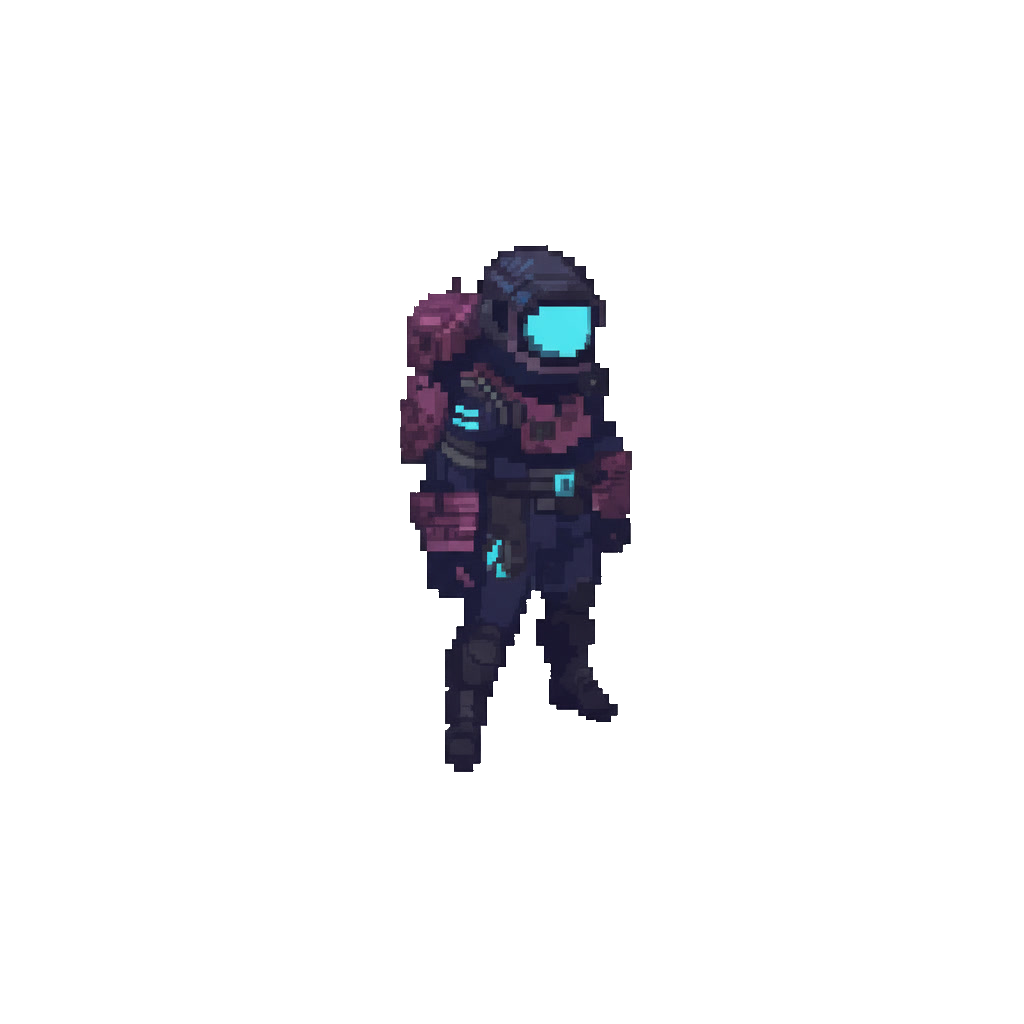
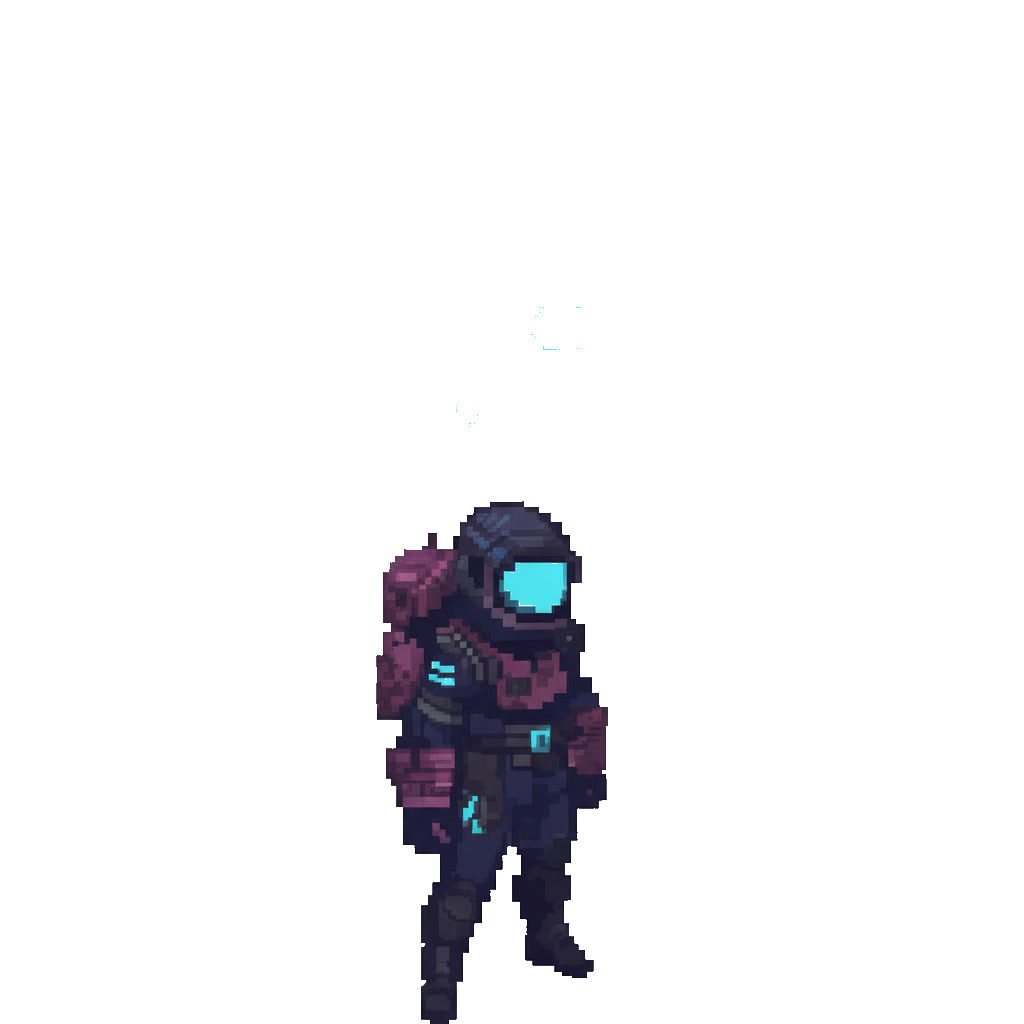
feat: implement player positioning on isometric grid

Changed region(s): [[0.3438, 0.2188, 0.625, 1.0]]

diff --git a/src/components/Canvas/Canvas.tsx b/src/components/Canvas/Canvas.tsx
@@ -1,4 +1,4 @@
-import { useEffect, useRef } from "react";
+import { useEffect, useRef, type RefObject } from "react";
 import styles from "./canvas.module.css";
 import findTile from "../../game/grid/findTile";
 import type { GameAssets } from "../../assets/assetTypes";
@@ -16,7 +16,20 @@ import { drawWorldBorders } from "../../rendering/environment/drawWorldBorders";
 import { getViewport } from "../../rendering/viewport/getViewport";
 import { screenToWorld } from "../../rendering/viewport/screenToWorld";
 import type { CanvasProps } from "./Canvas.interface";
-import { HALF_TILE_HEIGHT } from "../../game/grid/grid.constants";
+import {
+  GRID_ORIGIN_X,
+  GRID_ORIGIN_Y,
+  HALF_TILE_HEIGHT,
+  HALF_TILE_WIDTH,
+} from "../../game/grid/grid.constants";
+
+export interface Player {
+  gridX: number;
+  gridY: number;
+  targetGridX: number;
+  targetGridY: number;
+  speed: number;
+}
 
 export default function Canvas({
   handleTileSelection,
@@ -34,20 +47,34 @@ export default function Canvas({
 }: CanvasProps) {
   const drawStaticChar = (
     ctx: CanvasRenderingContext2D,
-    tile: Tile,
     assets: GameAssets,
+    player: RefObject<Player>,
   ) => {
     const image = assets.playable_char_static;
 
-    console.log("TILE ====> ", tile);
+    const width = 152;
+    const height = 152;
 
-    const width = 126;
-    const height = 126;
+    const worldX =
+      GRID_ORIGIN_X + (player.current.gridX - player.current.gridY) * HALF_TILE_WIDTH;
 
-    const x = tile.x - width / 2;
-    const y = tile.y - height + HALF_TILE_HEIGHT;
+    const worldY =
+      GRID_ORIGIN_Y + (player.current.gridX + player.current.gridY) * HALF_TILE_HEIGHT;
+
+    const x = worldX - width / 2;
+    const y = worldY - height;
 
     ctx.drawImage(image, x, y, width, height);
+
+    ctx.drawImage(image, x, y, width, height);
+
+    ctx.beginPath();
+    ctx.arc(worldX, worldY, 5, 0, 2 * Math.PI);
+    ctx.fillStyle = "red";
+    ctx.fill();
+    ctx.lineWidth = 4;
+    ctx.strokeStyle = "blue";
+    ctx.stroke();
   };
 
   const canvasRef = useRef<HTMLCanvasElement | null>(null);
@@ -55,6 +82,14 @@ export default function Canvas({
   const tilesRef = useRef<Tile[]>(tiles);
   const plantsRef = useRef<Plant[]>(plants);
   const assetsRef = useRef<GameAssets>(assets);
+
+  const playerRef = useRef<Player>({
+    gridX: 2,
+    gridY: 9,
+    targetGridX: 5,
+    targetGridY: 5,
+    speed: 3,
+  });
 
   useEffect(() => {
     tilesRef.current = tiles;
@@ -80,7 +115,7 @@ export default function Canvas({
 
     let animationFrameId: number;
 
-    const render = (time: number) => {
+    const render = (timeStamp: number) => {
       ctx.clearRect(0, 0, canvas.width, canvas.height);
       const viewport = getViewport(canvas.width, canvas.height);
 
@@ -99,13 +134,14 @@ export default function Canvas({
 
       drawDepthSortedWorld(
         ctx,
-        time,
+        timeStamp,
         plantsRef.current,
         initialDecorations,
         tilesRef.current,
         assetsRef.current,
         bioBatteryStatus,
       );
+      drawStaticChar(ctx, assets, playerRef);
 
       drawForeground(ctx, assetsRef.current);
 
@@ -113,13 +149,12 @@ export default function Canvas({
 
       drawWorldBorders(ctx, canvas.width, canvas.height, viewport);
 
-      drawStaticChar(ctx, tilesRef.current[70], assets);
-
       animationFrameId = requestAnimationFrame(render);
     };
 
     // render();
     animationFrameId = requestAnimationFrame(render);
+    console.log("animationFrameId : ", animationFrameId);
 
     return () => {
       cancelAnimationFrame(animationFrameId);

diff --git a/src/game/grid/generateGrid.ts b/src/game/grid/generateGrid.ts
@@ -6,24 +6,12 @@ import {
   HALF_TILE_WIDTH,
   HALF_TILE_HEIGHT,
 } from "./grid.constants";
-import type { GroundOverlay, GroundVariant, Tile } from "./tiles.types";
+import type { GroundVariant, Tile } from "./tiles.types";
 
 export const getGroundVariant = (gridX: number, gridY: number): GroundVariant => {
   const hash = Math.imul(gridX, 73856093) ^ Math.imul(gridY, 19349663);
 
   return (Math.abs(hash) % 3) as GroundVariant;
-};
-
-export const getGroundOverlay = (gridX: number, gridY: number): GroundOverlay => {
-  const hash = Math.abs((gridX * 73856093) ^ (gridY * 19349663));
-
-  const value = hash % 20;
-
-  if (value === 0) return "smallRock";
-  if (value === 1) return "spores";
-  if (value === 2) return "vein";
-
-  return null;
 };
 
 export const generateGrid = (): Tile[] => {
@@ -57,7 +45,6 @@ export const generateGrid = (): Tile[] => {
         hovered: false,
         path,
         groundVariant: getGroundVariant(gridX, gridY),
-        groundOverlay: getGroundOverlay(gridX, gridY),
       });
     }
   }

diff --git a/src/components/Hud/Transmissions/TransmissionModal/TransmissionModal.tsx b/src/components/Hud/Transmissions/TransmissionModal/TransmissionModal.tsx
@@ -111,10 +111,13 @@ export default function TransmissionModal({
             {currentTransmission.texts[currentTransmissionIndex] && (
               <button
                 style={{
-                  background: "transparent",
-                  border: "none",
                   cursor: "pointer",
                   color: "#89dcf1",
+                  background: "rgba(7,13,31,0.94)",
+                  // border: "1px solid #087E98",
+                  border: "1px solid #89dcf1",
+                  padding: "0.5rem",
+                  borderRadius: 5,
                 }}
                 onClick={() => {
                   if (currentTransmissionIndex === currentTransmission.texts.length - 1) {
@@ -122,7 +125,7 @@ export default function TransmissionModal({
                   } else setCurrentTransmissionIndex(currentTransmissionIndex + 1);
                 }}
               >
-                CONTINUER {">"}{" "}
+                CONTINUER {">"}
               </button>
             )}
           </div>

diff --git a/src/components/Hud/ContextualHuds/EmptyTileHud/EmptyTileHud.tsx b/src/components/Hud/ContextualHuds/EmptyTileHud/EmptyTileHud.tsx
@@ -11,11 +11,12 @@ export default function EmptyTileHud({
     <div>
       <h3>Emplacement vide</h3>
       {selectedTile.id}
+      "selectedTile.gridX :"{selectedTile.gridX}
+      "selectedTile.gridY :"{selectedTile.gridY}
       <p>
         Cette parcelle de terre est fertile ! Vous pouvez y planter n'importe laquelle de
         vos graines{" "}
       </p>
-
       {selectedSpecie ? (
         <div>
           <p> Graine Sélectionnée : {selectedSpecie} </p>
